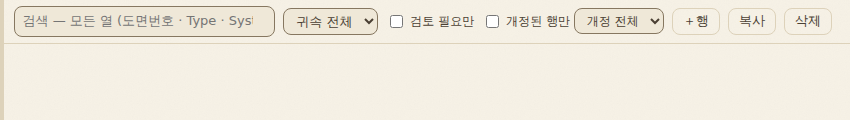
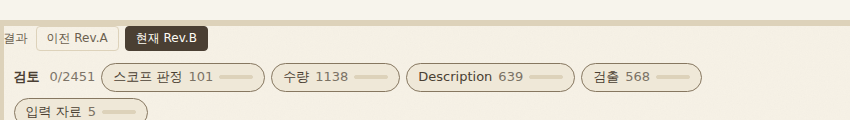
hotfix39: 전환 스위치 함수 복원(리팩터가 지운 블록) · 소스 시험 5건
Claude-Session: https://claude.ai/code/session_01DB7McHNyNWu23TYcFD71ke

diff --git a/app/static/app.js b/app/static/app.js
@@ -1366,6 +1366,96 @@ function renderRevLabel() {
   if (w) w.classList.toggle("hidden", !S.rev.compared_with);
 }
 
+/* hotfix39 — 직전/현재 결과 스위치와 전환.
+ *
+ * 사용자 요구: *"개정된 P&ID 가 들어오면 오른쪽 list 및 속성란을 … 이전 직전 P&ID 를
+ * 불러와서 선택 가능하도록 — 오른쪽 상단에 이전 P&ID 표기와 현재 P&ID 출력 결과 표기 —
+ * 화면 전환이 무겁지 않고 가볍고 빠르게."*
+ *
+ * 방법: 결과 하나의 화면 상태(행 · 검토 · 개정 · 장 목록 · 선택 · 배율)를 **통째로 메모리에
+ * 둔다** (`S.viewCache[jobId]`).  처음 가는 결과는 보통의 열기(`open`)로 읽고 — 그 비용은
+ * 한 번이다 — 돌아올 때는 캐시를 되살려 그리기만 한다 (결과 요청 0 · 도면 그림은 브라우저
+ * 캐시).  장은 **같은 도면번호**를 따라간다 — 쪽 번호가 아니라 (13회차: 개정 때 장 순서가
+ * 바뀐다).  필터·선택은 결과마다 따로 산다.  */
+const VIEW_KEYS = ["job", "pages", "rows", "rowByKey", "revByKey", "deletedRows", "counts",
+  "originCounts", "review", "jobReview", "rev", "axisOv", "markupSummary", "unjudged",
+  "unjudgedKnown", "feedback", "reports", "legend", "mult", "sheetNos", "sheetTargets",
+  "byTab", "drawings", "page", "sel", "zoom", "mode", "tab", "axis", "code", "drawing",
+  "gradeFilter", "reasonFilter", "originFilter", "filter", "onlyReview", "onlyChanged",
+  "revFilter", "colFilters", "natural"];
+
+function snapshotView() {
+  if (!S.job) return;
+  const snap = {};
+  for (const k of VIEW_KEYS) snap[k] = S[k];
+  snap._bars = { mode: $("#mode-bar") ? $("#mode-bar").innerHTML : "",
+                 modeHidden: $("#mode-bar") ? $("#mode-bar").classList.contains("hidden") : true,
+                 legend: $("#legend-bar") ? $("#legend-bar").innerHTML : "",
+                 legendHidden: $("#legend-bar") ? $("#legend-bar").classList.contains("hidden") : true,
+                 jobName: $("#job-name").textContent, jobMeta: $("#job-meta").textContent };
+  S.viewCache[S.job.id] = snap;
+}
+
+function restoreView(snap) {
+  for (const k of VIEW_KEYS) S[k] = snap[k];
+  const b = snap._bars || {};
+  if ($("#mode-bar")) { $("#mode-bar").innerHTML = b.mode || ""; $("#mode-bar").classList.toggle("hidden", !!b.modeHidden); }
+  if ($("#legend-bar")) { $("#legend-bar").innerHTML = b.legend || ""; $("#legend-bar").classList.toggle("hidden", !!b.legendHidden); }
+  $("#job-name").textContent = b.jobName || "";
+  $("#job-meta").textContent = b.jobMeta || "";
+  const oc = $("#only-changed"); if (oc) oc.checked = !!S.onlyChanged;
+  const rf = $("#rev-filter"); if (rf) rf.value = S.revFilter || "";
+  const only = $("#only-review"); if (only) only.checked = !!S.onlyReview;
+  const box = $("#filter"); if (box) box.value = S.filter || "";
+  // 주소는 보는 결과를 가리키되, hashchange 로 다시 열지 않는다
+  history.replaceState(null, "", "#" + S.job.id);
+  renderRevLabel();
+  buildTabs(); updateBadge(); renderReviewPanel(); showAppliedRules(); buildPageSelect(); renderGrid();
+  renderRevSwitch();
+}
+
+function renderRevSwitch() {
+  const box = $("#rev-switch");
+  if (!box) return;
+  const pr = S.revPair;
+  if (!pr || !S.job || (S.job.id !== pr.current && S.job.id !== pr.previous)) {
+    box.classList.add("hidden"); box.innerHTML = ""; return;
+  }
+  const viewingPrev = S.job.id === pr.previous;
+  box.innerHTML = `<span class="rs-cap">결과</span>`
+    + `<button type="button" class="prev${viewingPrev ? " on" : ""}" data-job="${escape(pr.previous)}" title="직전 P&ID 결과를 봅니다 — 오른쪽 목록·검토·근거와 왼쪽 도면이 그 결과로 바뀝니다">이전 ${escape(pr.previousLabel)}</button>`
+    + `<button type="button" class="cur${viewingPrev ? "" : " on"}" data-job="${escape(pr.current)}" title="현재 P&ID 출력 결과">현재 ${escape(pr.currentLabel)}</button>`
+    + `<span class="rs-note">${viewingPrev ? "직전 결과를 보는 중 — 편집은 그 결과에 저장됩니다" : (S.viewCache[pr.previous] ? "이전 결과는 메모리에 있어 바로 전환됩니다" : "")}</span>`;
+  box.classList.remove("hidden");
+  box.classList.toggle("viewing-prev", viewingPrev);
+  box.querySelectorAll("button").forEach(b => b.onclick = () => switchView(b.dataset.job));
+}
+
+async function switchView(jobId) {
+  if (!jobId || !S.job || S.job.id === jobId || S.loading) return;
+  const want = S.page ? (S.page.drawing_no || "") : "";
+  const pair = S.revPair;
+  snapshotView();
+  const t0 = performance.now();
+  const snap = S.viewCache[jobId];
+  if (snap) {
+    restoreView(snap);
+  } else {
+    await open(jobId);          // 처음 한 번은 보통의 열기 — 그 뒤로는 캐시
+    S.revPair = pair;
+    renderRevSwitch();
+    snapshotView();
+  }
+  // 같은 도면번호의 장으로 — 없으면 그 결과의 첫 장
+  const page = (want && S.pages.find(p => p.drawing_no === want))
+    || (snap ? S.page : null) || S.pages.find(p => (p.layers && Object.keys(p.layers).length)) || S.pages[0];
+  if (page) showPage(page);
+  S.lastSwitchMs = Math.round(performance.now() - t0);
+  const note = $("#rev-switch .rs-note");
+  if (note) note.textContent = (S.job.id === (pair || {}).previous ? "직전 결과를 보는 중 — 편집은 그 결과에 저장됩니다 · " : "")
+    + `전환 ${S.lastSwitchMs}ms${snap ? " (메모리)" : " (처음 읽음)"}`;
+}
+
 /* 삭제 후보 한 건의 근거.  좌표 · 반경 · 가장 가까웠던 후보까지 거리 셋이
  * 있어야 "도면에서 지워졌다" 와 "이번에 못 뽑았다" 를 사람이 가를 수 있다. */
 function showDeletedEvidence(d) {

diff --git a/tests/test_hotfix39_revswitch.py b/tests/test_hotfix39_revswitch.py
@@ -1,0 +1,55 @@
+"""hotfix39 — 직전 P&ID 결과 ↔ 현재 결과 스위치 (오른쪽 상단 · 메모리 캐시).
+
+사용자: *"개정된 P&ID 가 들어오면 오른쪽 list 및 속성란을 … 이전 직전 P&ID 를 불러와서 선택
+가능하도록 … 오른쪽 상단에 이전 P&ID 표기와 현재 P&ID 출력 결과 표기 … 화면 전환이 무겁지
+않고 가볍고 빠르게."*  소스로 못박는다 — 자기검증 첫 실행이 함수 하나가 통째로 사라진 것을
+잡았다 (`renderRevSwitch is not defined`): 리팩터가 그 사이 블록을 지웠다.
+"""
+from __future__ import annotations
+
+import re
+from pathlib import Path
+
+ROOT = Path(__file__).resolve().parent.parent
+JS = (ROOT / "app/static/app.js").read_text(encoding="utf-8")
+HTML = (ROOT / "app/static/index.html").read_text(encoding="utf-8")
+MAIN = (ROOT / "app/main.py").read_text(encoding="utf-8")
+
+
+def test_the_switch_and_its_four_functions_exist():
+    for name in ("function snapshotView", "function restoreView", "function renderRevSwitch",
+                 "async function switchView", "function renderRevLabel", "const VIEW_KEYS"):
+        assert name in JS, name
+    assert 'id="rev-switch"' in HTML
+    # 오른쪽 맨 위 — 검토 띠보다 앞에 선다
+    assert HTML.index('id="rev-switch"') < HTML.index('id="review-panel"')
+
+
+def test_a_cached_result_is_restored_without_result_requests():
+    """메모리 복원 경로에는 결과를 다시 읽는 fetch 가 없다 — 그리기만 한다."""
+    body = JS[JS.index("function restoreView"):JS.index("function renderRevSwitch")]
+    assert "fetch(" not in body and "await " not in body
+    assert "renderRevLabel()" in body and "renderGrid()" in body and "buildPageSelect()" in body
+    # 주소는 바꾸되 hashchange 로 다시 열지 않는다
+    assert "history.replaceState" in body and "location.hash =" not in body
+
+
+def test_the_first_visit_uses_the_ordinary_open_then_caches():
+    body = JS[JS.index("async function switchView"):]
+    body = body[:body.index("\n}\n") + 3]
+    assert "await open(jobId)" in body and "snapshotView()" in body
+    # 장은 쪽 번호가 아니라 같은 도면번호를 따라간다 (13회차 — 개정 때 장 순서가 바뀐다)
+    assert "p.drawing_no === want" in body
+
+
+def test_the_revision_label_is_drawn_by_one_function():
+    """열기와 복원이 같은 라벨 함수를 부른다 — 두 벌을 두면 갈린다 (11회차 규칙)."""
+    assert JS.count("renderRevLabel()") >= 2
+    assert len(re.findall(r"el\.textContent = S\.rev\.label", JS)) == 1
+
+
+def test_the_server_names_the_previous_and_next_jobs():
+    body = MAIN[MAIN.index("def job_revision"):MAIN.index("def confirm_deleted")]
+    assert '"previous_job_id": previous_job' in body and '"next_jobs": next_jobs' in body
+    # 장부(project.json)의 사실이고 여기서 판정하지 않는다
+    assert "revisions.load_project" in body

diff --git a/out/hotfix39/ui_switch/README.md b/out/hotfix39/ui_switch/README.md
@@ -1,3 +1,11 @@
 # hotfix39 UI 자기검증 — 직전/현재 결과 전환
 
 - 서버 — previous_job_id '2098450b4603' · next_jobs []
+- ① 스위치: '결과\n이전 Rev.A\n현재 Rev.B' — 맞음
+- 현재: {'job': '48b5adbdd28c', 'rows': 1991, 'page': 6, 'dwg': '1A1Y-00EKG00-M05-0001', 'label': 'Rev.B vs Rev.A — 추가 103 · 수정 458 · 삭제 후보 111 · 짝 태그 1423 · 기하 465 · 도면번호 바뀐 장 3 · 새 장 4 · 빠진 장 2', 'grid': 2102}
+- ② 이전으로 (처음 읽음) — 9221ms · 요청 23 · {'job': '2098450b4603', 'rows': 1999, 'page': 51, 'dwg': '1A1Y-10LCM10-M05-0001', 'label': 'Rev.A (비교 대상 없음)', 'grid': 1999} — 맞음
+- ③-요청 ['/jobs/48b5adbdd28c/multipliers', '/jobs/48b5adbdd28c/sheet_numbers', '/jobs/48b5adbdd28c/notes/51', '/jobs/48b5adbdd28c/page/51.png?zoom=1.6', '/static/favicon.svg']
+- ③ 현재로 (메모리) — 3251ms · 결과 요청 0 · {'job': '48b5adbdd28c', 'rows': 1991, 'page': 51, 'dwg': '1A1Y-10LCM10-M05-0001', 'label': 'Rev.B vs Rev.A — 추가 103 · 수정 458 · 삭제 후보 111 · 짝 태그 1423 · 기하 465 · 도면번호 바뀐 장 3 · 새 장 4 · 빠진 장 2', 'grid': 2102} — 맞음
+- ④ 다시 이전으로 (메모리) — 3214ms · 결과 요청 0 · rows 1999 — 맞음
+- ⑤ 스위치 문구: '결과\n이전 Rev.A\n현재 Rev.B\n직전 결과를 보는 중 — 편집은 그 결과에 저장됩니다 · 전환 1087ms (메모리)'
+- ⑥ 페이지 오류 0
